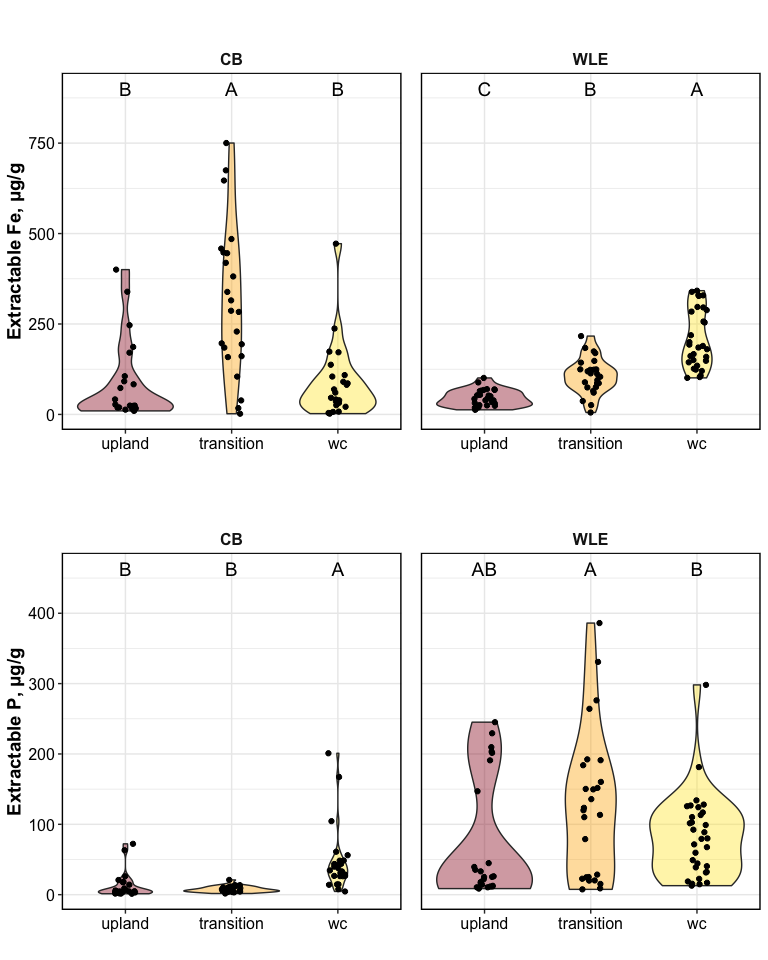
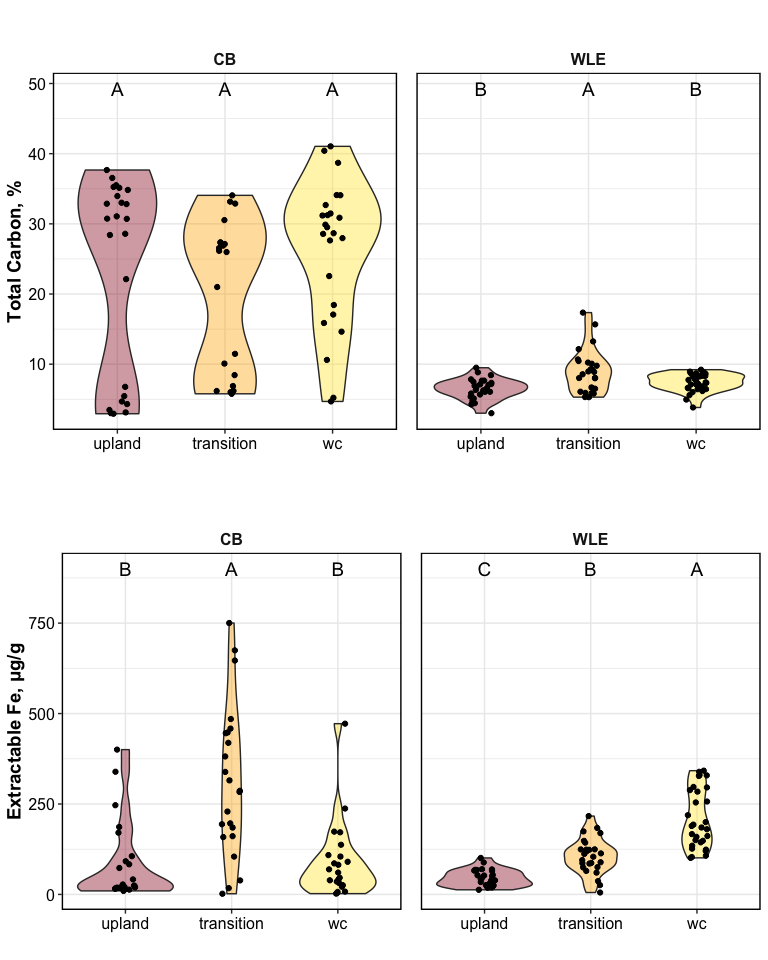
add tc graphs

diff --git a/3-reports/manuscript_figures.md b/3-reports/manuscript_figures.md
@@ -154,6 +154,8 @@ Click to Open
 
 ![](manuscript_figures_files/figure-gfm/analytesx-3-1.png)<!-- -->
 
+![](manuscript_figures_files/figure-gfm/analytesx-4-1.png)<!-- -->
+
 ## Chesapeake-only plots for GWI
 
 ![](manuscript_figures_files/figure-gfm/analytes-gwi-1.png)<!-- -->
